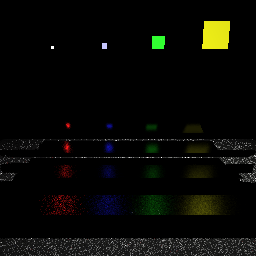
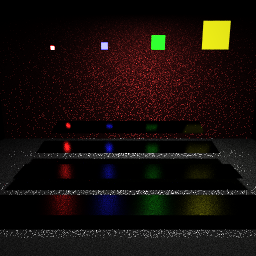
fixed various problems with MIS, still not working properly

diff --git a/rt/src/rt/integrators/AreaLightIntegrator.java b/rt/src/rt/integrators/AreaLightIntegrator.java
@@ -7,6 +7,7 @@ import rt.importanceSampling.PowerHeuristic;
 import rt.importanceSampling.SamplingTechnique;
 import rt.samplers.RandomSampler;
 
+import javax.sound.sampled.FloatControl;
 import javax.vecmath.Vector3f;
 
 /**
@@ -39,26 +40,38 @@ public class AreaLightIntegrator extends WhittedIntegrator
         ImportanceSample brdfSample = new ImportanceSample();
         ImportanceSample lightSample = new ImportanceSample();
 
-        if(samplingTechnique == SamplingTechnique.BRDF || samplingTechnique == SamplingTechnique.MIS)
+        if(samplingTechnique == SamplingTechnique.BRDF)
         {
             brdfSample = sampleBRDF(surfaceHit);
+            outgoing.add(brdfSample.spectrum);
         }
-        if(samplingTechnique == SamplingTechnique.Light || samplingTechnique == SamplingTechnique.MIS)
+        if(samplingTechnique == SamplingTechnique.Light)
         {
             lightSample = sampleLightSource(surfaceHit);
+            outgoing.add(lightSample.spectrum);
         }
+        if(samplingTechnique == SamplingTechnique.MIS)
+        {
+            brdfSample = sampleBRDF(surfaceHit);
+            lightSample = sampleLightSource(surfaceHit);
 
-        // Apply heuristics for multiple importance sampling
-        float weight1 = heuristic.evaluate(brdfSample.directionalProbability, lightSample.directionalProbability);
-        float weight2 = heuristic.evaluate(lightSample.areaProbability, brdfSample.areaProbability);
+            if(lightSample.areaProbability == 0 && brdfSample.directionalProbability == 0)
+            {
+                return;
+            }
 
-        Spectrum s1 = new Spectrum(brdfSample.spectrum);
-        Spectrum s2 = new Spectrum(lightSample.spectrum);
-        s1.mult(weight1);
-        s2.mult(weight2);
+            // Apply heuristics for multiple importance sampling
+            float weight1 = heuristic.evaluate(brdfSample.directionalProbability, lightSample.directionalProbability);
+            float weight2 = heuristic.evaluate(lightSample.directionalProbability, brdfSample.directionalProbability);
 
-        outgoing.add(s1);
-        outgoing.add(s2);
+            Spectrum s1 = new Spectrum(brdfSample.spectrum);
+            Spectrum s2 = new Spectrum(lightSample.spectrum);
+            s1.mult(weight1);
+            s2.mult(weight2);
+
+            outgoing.add(s1);
+            outgoing.add(s2);
+        }
     }
 
     protected ImportanceSample sampleBRDF(HitRecord surfaceHit)
@@ -102,7 +115,7 @@ public class AreaLightIntegrator extends WhittedIntegrator
 
         // Return probabilities and spectrum for multiple importance sampling
         ImportanceSample importanceSample = new ImportanceSample();
-        importanceSample.areaProbability = shadingSample.p * d2 / lightHit.w.dot(lightHit.normal);
+        importanceSample.areaProbability = shadingSample.p * lightHit.w.dot(lightHit.normal) / d2;
         importanceSample.directionalProbability = shadingSample.p;;
         importanceSample.spectrum = s;
 
@@ -126,14 +139,14 @@ public class AreaLightIntegrator extends WhittedIntegrator
         }
 
         // Check if the surface points towards the visible side of the area light
-        if (lightHit.normal != null && lightHit.normal.dot(lightDir) > 0)
+        if (lightHit.normal != null && lightHit.normal.dot(lightDir) >= 0)
         {
             return new ImportanceSample();
         }
 
         float d2 = lightDir.lengthSquared();
         lightDir.normalize();
-        lightHit.w = lightDir;
+        lightHit.w = StaticVecmath.negate(lightDir);
 
         /*
          *  Multiply together factors relevant for shading, that is, brdf * emission * geometry term / pdf
@@ -141,7 +154,7 @@ public class AreaLightIntegrator extends WhittedIntegrator
         Spectrum s = new Spectrum(surfaceHit.material.evaluateBRDF(surfaceHit, surfaceHit.w, lightDir));
 
         // Multiply with emission
-        s.mult(lightHit.material.evaluateEmission(lightHit, StaticVecmath.negate(lightDir)));
+        s.mult(lightHit.material.evaluateEmission(lightHit, lightHit.w));
 
         // Multiply with geometry term
         float ndotl = Math.max(0, surfaceHit.normal.dot(lightDir));
@@ -153,7 +166,7 @@ public class AreaLightIntegrator extends WhittedIntegrator
         // Return probabilities and spectrum for multiple importance sampling
         ImportanceSample importanceSample = new ImportanceSample();
         importanceSample.areaProbability = lightHit.p;
-        importanceSample.directionalProbability = lightHit.p * lightHit.w.dot(lightHit.normal) / d2;
+        importanceSample.directionalProbability = lightHit.p * d2 / lightHit.w.dot(lightHit.normal);
         importanceSample.spectrum = s;
 
         return importanceSample;

diff --git a/rt/src/rt/testscenes/SoftShadows.java b/rt/src/rt/testscenes/SoftShadows.java
@@ -46,7 +46,7 @@ public class SoftShadows extends Scene {
 		// Specify integrator to be used
         AreaLightIntegratorFactory iF = new AreaLightIntegratorFactory();
 		//PointLightIntegratorFactory iF = new PointLightIntegratorFactory();
-		SamplingTechnique technique = SamplingTechnique.BRDF;
+		SamplingTechnique technique = SamplingTechnique.MIS;
 		iF.setRecursionDepth(2);
 		iF.setSamplingTechnique(technique);
 		integratorFactory = iF;
